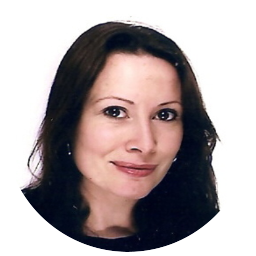
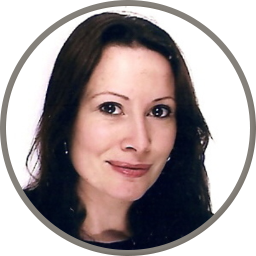
photo page home

Changed region(s): [[0.0, 0.0, 1.0, 1.0], [0.4375, 0.75, 0.4688, 0.7812]]

diff --git a/SASS/pages/home.scss b/SASS/pages/home.scss
@@ -49,8 +49,8 @@
       .rond-blanc1{
         top:-15px;
         left:130px;
-        width: 15px;        
-        height: 15px;     
+        width: 13px;        
+        height: 13px;     
         @include devices(mobile) {
           width: 12px;        
           height: 12px; 
@@ -71,9 +71,7 @@
         position: absolute;
         left:169px;
         top:-58px;
-        z-index:50;
-        opacity: 0;
-        animation: borderVisible 0.01s 2.2s forwards;
+        z-index:50;       
         box-shadow:none;
         @include devices(mobile) {
           left:110px;
@@ -151,7 +149,6 @@
     position: relative;
     box-sizing: border-box;
     overflow: hidden;
-    // border-right: 0.15em solid rgb(245, 242, 242);
     white-space: nowrap;
     width: 0;
     opacity: 0;
@@ -222,10 +219,6 @@
   }
 
   .box_photo {
-    border-radius: 50%;
-    border: 4px solid #333;
-    // border: 1px solid rgba(145, 138, 138, 0.6);
-    // overflow: hidden;
     height: 130px;
     width: 130px;
     &.hiddenImg {

diff --git a/CSS/styles.css b/CSS/styles.css
@@ -704,8 +704,8 @@ header a {
 #home .container .box_photo .rond-blanc1 {
   top: -15px;
   left: 130px;
-  width: 15px;
-  height: 15px;
+  width: 13px;
+  height: 13px;
 }
 @media only screen and (max-width: 550px) {
   #home .container .box_photo .rond-blanc1 {
@@ -731,8 +731,6 @@ header a {
   left: 169px;
   top: -58px;
   z-index: 50;
-  opacity: 0;
-  animation: borderVisible 0.01s 2.2s forwards;
   box-shadow: none;
 }
 @media only screen and (max-width: 550px) {
@@ -869,8 +867,6 @@ header a {
   }
 }
 #home .box_photo {
-  border-radius: 50%;
-  border: 4px solid #333;
   height: 130px;
   width: 130px;
 }
